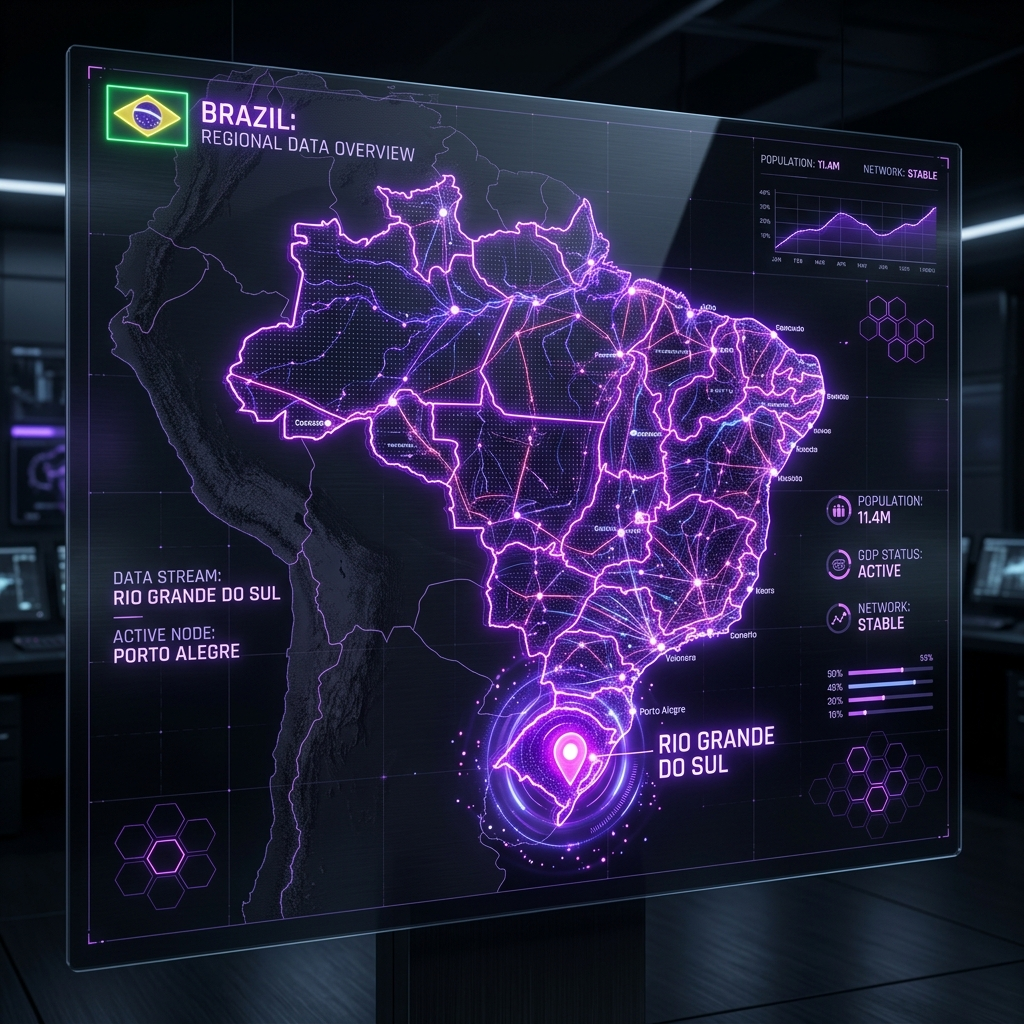
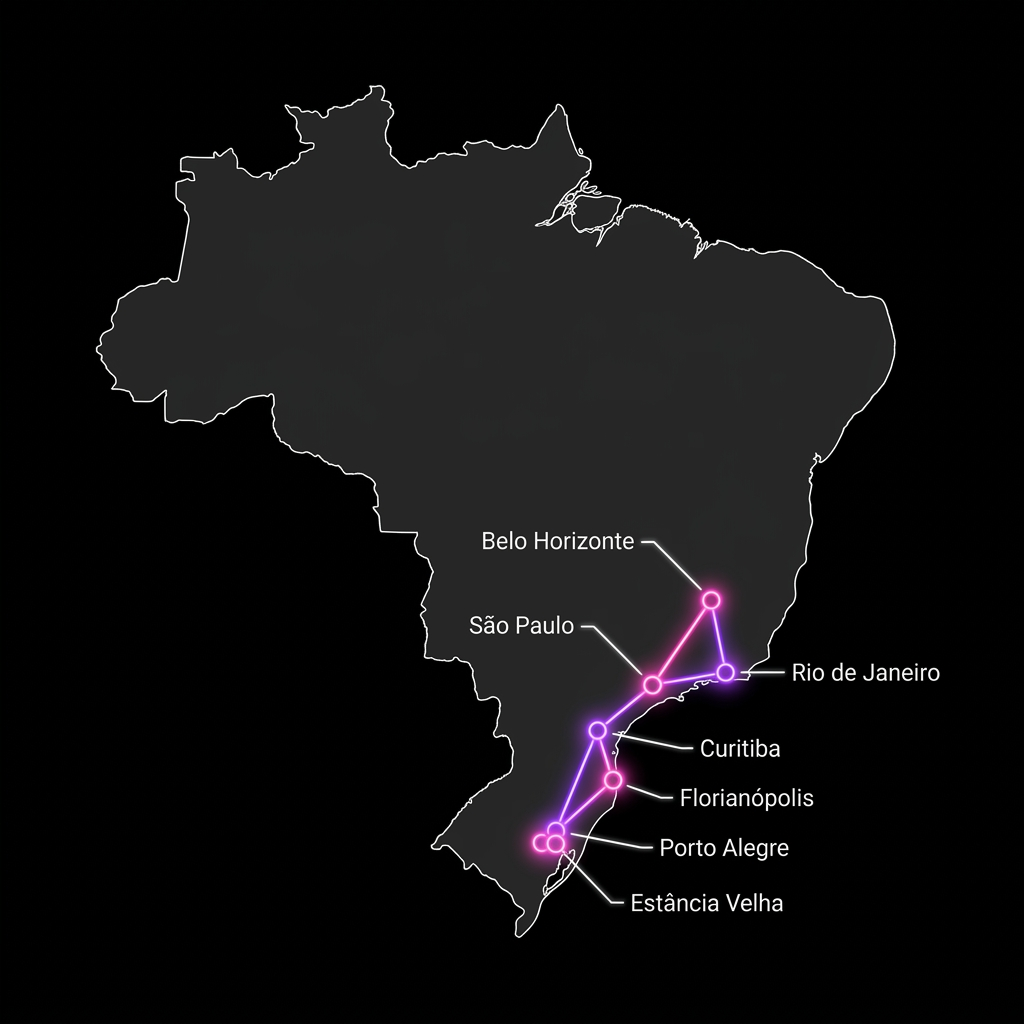
design: redesign hero and section titles using Syne font and stacked layout

diff --git a/src/index.css b/src/index.css
@@ -1,4 +1,4 @@
-@import url('https://fonts.googleapis.com/css2?family=Outfit:wght@300;400;500;600;700;800;900&family=Space+Grotesk:wght@400;500;600;700&family=Plus+Jakarta+Sans:wght@300;400;500;600;700&family=Inter:wght@300;400;500;600;700&display=swap');
+@import url('https://fonts.googleapis.com/css2?family=Syne:wght@700;800&family=Outfit:wght@300;400;500;600;700;800;900&family=Space+Grotesk:wght@400;500;600;700&family=Plus+Jakarta+Sans:wght@300;400;500;600;700&family=Inter:wght@300;400;500;600;700&display=swap');
 
 :root {
   --bg-primary: #050508;
@@ -1615,21 +1615,44 @@ h1, h2, h3, h4, h5, h6 {
   border-color: var(--neon-purple);
 }
 
-/* Builderz Timeline & Typography Styles for Marketing Landing Page */
 .builderz-main-title {
-  font-size: 3rem;
-  font-weight: 900;
-  line-height: 1.1;
-  letter-spacing: -0.02em;
+  font-family: 'Syne', sans-serif;
+  font-size: 4.8rem;
+  font-weight: 800;
+  line-height: 0.82;
+  letter-spacing: -0.04em;
   margin: 0;
   color: #ffffff;
+  text-transform: uppercase;
 }
 
 .builderz-outlined-text {
   color: transparent !important;
-  -webkit-text-stroke: 1.5px var(--neon-purple);
-  text-stroke: 1.5px var(--neon-purple);
-  text-shadow: 0 0 15px rgba(124, 58, 237, 0.2);
+  -webkit-text-stroke: 2px var(--neon-purple);
+  text-stroke: 2px var(--neon-purple);
+  text-shadow: 0 0 20px rgba(124, 58, 237, 0.25);
+}
+
+@media (max-width: 992px) {
+  .builderz-main-title {
+    font-size: 3.8rem;
+  }
+}
+
+@media (max-width: 768px) {
+  .builderz-main-title {
+    font-size: 2.8rem;
+    -webkit-text-stroke: 1.5px var(--neon-purple);
+    text-stroke: 1.5px var(--neon-purple);
+  }
+}
+
+@media (max-width: 480px) {
+  .builderz-main-title {
+    font-size: 2.2rem;
+    -webkit-text-stroke: 1px var(--neon-purple);
+    text-stroke: 1px var(--neon-purple);
+  }
 }
 
 .builderz-timeline-container {
@@ -1764,24 +1787,28 @@ h1, h2, h3, h4, h5, h6 {
 }
 
 .mkt-mentor-name-primary {
-  font-size: 4rem;
-  font-weight: 900;
+  font-family: 'Syne', sans-serif;
+  font-size: 5.8rem;
+  font-weight: 800;
   color: #ffffff;
-  line-height: 0.9;
-  letter-spacing: -0.02em;
+  line-height: 0.82;
+  letter-spacing: -0.04em;
   margin: 0;
+  text-transform: uppercase;
 }
 
 .mkt-mentor-name-secondary {
-  font-size: 4rem;
-  font-weight: 900;
-  line-height: 0.9;
-  letter-spacing: -0.02em;
+  font-family: 'Syne', sans-serif;
+  font-size: 5.8rem;
+  font-weight: 800;
+  line-height: 0.82;
+  letter-spacing: -0.04em;
   margin: 0 0 24px;
   color: transparent !important;
-  -webkit-text-stroke: 1.5px var(--neon-purple);
-  text-stroke: 1.5px var(--neon-purple);
-  text-shadow: 0 0 15px rgba(124, 58, 237, 0.2);
+  -webkit-text-stroke: 2px var(--neon-purple);
+  text-stroke: 2px var(--neon-purple);
+  text-shadow: 0 0 20px rgba(124, 58, 237, 0.25);
+  text-transform: uppercase;
 }
 
 .mkt-mentor-lead-text {
@@ -1825,5 +1852,128 @@ h1, h2, h3, h4, h5, h6 {
     grid-template-columns: 1fr;
     gap: 40px;
     max-width: 600px;
+  }
+  .mkt-mentor-name-primary,
+  .mkt-mentor-name-secondary {
+    font-size: 4.5rem;
+  }
+}
+
+@media (max-width: 768px) {
+  .mkt-mentor-name-primary,
+  .mkt-mentor-name-secondary {
+    font-size: 3.2rem;
+    -webkit-text-stroke: 1.5px var(--neon-purple);
+    text-stroke: 1.5px var(--neon-purple);
+  }
+}
+
+@media (max-width: 480px) {
+  .mkt-mentor-name-primary,
+  .mkt-mentor-name-secondary {
+    font-size: 2.4rem;
+    -webkit-text-stroke: 1px var(--neon-purple);
+    text-stroke: 1px var(--neon-purple);
+  }
+}
+
+/* Stacked Syne Title styles for premium tech vibes */
+.mkt-title-stack {
+  display: flex;
+  flex-direction: column;
+  align-items: center;
+  text-align: center;
+  gap: 0;
+  margin-bottom: 24px;
+}
+
+.mkt-title-stack-left {
+  display: flex;
+  flex-direction: column;
+  align-items: flex-start;
+  text-align: left;
+  gap: 0;
+  margin-bottom: 24px;
+}
+
+.mkt-title-line {
+  font-family: 'Syne', sans-serif;
+  font-size: 5.8rem;
+  font-weight: 800;
+  line-height: 0.82;
+  letter-spacing: -0.04em;
+  text-transform: uppercase;
+  margin: 0;
+  padding: 0;
+}
+
+.mkt-title-solid {
+  color: #ffffff;
+}
+
+.mkt-title-outlined {
+  color: transparent !important;
+  -webkit-text-stroke: 2px var(--neon-purple);
+  text-stroke: 2px var(--neon-purple);
+  text-shadow: 0 0 20px rgba(124, 58, 237, 0.25);
+}
+
+.mkt-title-accent {
+  color: var(--neon-purple);
+  text-shadow: 0 0 20px rgba(124, 58, 237, 0.35);
+}
+
+@media (max-width: 992px) {
+  .mkt-title-line {
+    font-size: 4.5rem;
+  }
+}
+
+@media (max-width: 768px) {
+  .mkt-title-line {
+    font-size: 3.2rem;
+    -webkit-text-stroke: 1.5px var(--neon-purple);
+    text-stroke: 1.5px var(--neon-purple);
+  }
+}
+
+@media (max-width: 480px) {
+  .mkt-title-line {
+    font-size: 2.4rem;
+    -webkit-text-stroke: 1px var(--neon-purple);
+    text-stroke: 1px var(--neon-purple);
+  }
+}
+
+.mkt-section-title-line {
+  font-family: 'Syne', sans-serif;
+  font-size: 3.8rem;
+  font-weight: 800;
+  line-height: 0.85;
+  letter-spacing: -0.04em;
+  text-transform: uppercase;
+  margin: 0;
+  padding: 0;
+}
+
+@media (max-width: 992px) {
+  .mkt-section-title-line {
+    font-size: 3rem;
+  }
+}
+
+@media (max-width: 768px) {
+  .mkt-section-title-line {
+    font-size: 2.2rem;
+    -webkit-text-stroke: 1.5px var(--neon-purple);
+    text-stroke: 1.5px var(--neon-purple);
+  }
+}
+
+@media (max-width: 480px) {
+  .mkt-section-title-line {
+    font-size: 1.8rem;
+    -webkit-text-stroke: 1px var(--neon-purple);
+    text-stroke: 1px var(--neon-purple);
   }
 }

diff --git a/src/MarketingLandingPage.tsx b/src/MarketingLandingPage.tsx
@@ -170,8 +170,11 @@ Apenas para quem possui o convite exclusivo. Acesse o painel e confirme sua insc
         <div className="mkt-badge-host">
           Eduardo Both & Gabriel Müller Apresentam
         </div>
-        <h1 className="mkt-h1">AI EXPERIENCE</h1>
-        <h1 className="mkt-h1-accent">ESTÂNCIA VELHA</h1>
+        <div className="mkt-title-stack" style={{ marginBottom: '32px' }}>
+          <h1 className="mkt-title-line mkt-title-solid">AI EXPERIENCE</h1>
+          <h1 className="mkt-title-line mkt-title-outlined">ESTÂNCIA</h1>
+          <h1 className="mkt-title-line mkt-title-accent">VELHA.</h1>
+        </div>
         <p className="mkt-subtitle">
           Construa sistemas, aplicativos e automações corporativas reais ao vivo, usando inteligência artificial. Sem teoria morta, 100% hands-on.
         </p>
@@ -234,12 +237,10 @@ Apenas para quem possui o convite exclusivo. Acesse o painel e confirme sua insc
         <div style={{ maxWidth: '1200px', margin: '0 auto', display: 'flex', alignItems: 'center', minHeight: '450px' }}>
           <div style={{ position: 'relative', zIndex: 10, maxWidth: '550px' }}>
             <span className="mkt-section-label">[ 01 ] · GEO TRACE</span>
-            <h2 className="mkt-section-title" style={{ fontSize: '3rem', lineHeight: '1.1', fontWeight: 900 }}>
-              ROTA DE INOVAÇÃO.
-            </h2>
-            <h2 style={{ fontSize: '3rem', lineHeight: '1.1', fontWeight: 900, marginBottom: '24px', color: 'var(--neon-cyan)', textShadow: '0 0 20px rgba(0, 242, 254, 0.35)' }}>
-              PRÓXIMA PARADA: RS.
-            </h2>
+            <div className="mkt-title-stack-left" style={{ marginBottom: '24px' }}>
+              <h2 className="mkt-section-title-line mkt-title-solid">ROTA DE INOVAÇÃO.</h2>
+              <h2 className="mkt-section-title-line mkt-title-outlined">ESTÂNCIA VELHA.</h2>
+            </div>
             <p style={{ color: '#9ca3af', fontSize: '1rem', lineHeight: '1.6', marginBottom: '28px' }}>
               O AI Experience está cruzando regiões estratégicas de empreendedorismo de alta tecnologia. Trazemos a imersão diretamente para o ecossistema do Vale do Sinos, pousando estrategicamente em **Estância Velha**.
             </p>
@@ -276,7 +277,10 @@ Apenas para quem possui o convite exclusivo. Acesse o painel e confirme sua insc
       <section className="mkt-section" style={{ borderTop: '1px solid rgba(255, 255, 255, 0.05)' }}>
         <span className="mkt-section-label" style={{ textAlign: 'center' }}>[ 02 ] · THE METHOD</span>
         <div className="mkt-section-header" style={{ marginBottom: '60px' }}>
-          <h2 className="mkt-section-title">O MÉTODO GUIDE</h2>
+          <div className="mkt-title-stack" style={{ marginBottom: '16px' }}>
+            <h2 className="mkt-section-title-line mkt-title-solid">O MÉTODO</h2>
+            <h2 className="mkt-section-title-line mkt-title-outlined">GUIDE.</h2>
+          </div>
           <p style={{ color: '#9ca3af', maxWidth: '600px', margin: '12px auto 0', fontSize: '0.95rem' }}>
             A gente largou o ensino tradicional. No palco, do zero ao deploy, expondo todos os atalhos do stack mais rápido do mercado. Você sai com seu app no ar - não com uma apostila.
           </p>
@@ -343,7 +347,10 @@ Apenas para quem possui o convite exclusivo. Acesse o painel e confirme sua insc
       <section className="mkt-section" style={{ borderTop: '1px solid rgba(255, 255, 255, 0.05)' }}>
         <span className="mkt-section-label" style={{ textAlign: 'center' }}>[ 03 ] · A EXPERIÊNCIA</span>
         <div className="mkt-section-header" style={{ marginBottom: '48px' }}>
-          <h2 className="mkt-section-title">UM DIA DE EVENTO</h2>
+          <div className="mkt-title-stack" style={{ marginBottom: '16px' }}>
+            <h2 className="mkt-section-title-line mkt-title-solid">UM DIA DE</h2>
+            <h2 className="mkt-section-title-line mkt-title-outlined">EVENTO.</h2>
+          </div>
           <p style={{ color: '#9ca3af', maxWidth: '600px', margin: '12px auto 0', fontSize: '0.95rem' }}>
             A atmosfera de uma bancada de desenvolvimento com foco em entrega real.
           </p>
@@ -485,7 +492,10 @@ Apenas para quem possui o convite exclusivo. Acesse o painel e confirme sua insc
       <section className="mkt-section" style={{ borderTop: '1px solid rgba(255, 255, 255, 0.05)' }}>
         <span className="mkt-section-label" style={{ textAlign: 'center' }}>[ 06 ] · REALIZAÇÃO LOCAL</span>
         <div className="mkt-section-header" style={{ marginBottom: '60px' }}>
-          <h2 className="mkt-section-title">HOSTS E ORGANIZAÇÃO</h2>
+          <div className="mkt-title-stack" style={{ marginBottom: '16px' }}>
+            <h2 className="mkt-section-title-line mkt-title-solid">REALIZAÇÃO</h2>
+            <h2 className="mkt-section-title-line mkt-title-outlined">LOCAL.</h2>
+          </div>
           <p style={{ color: '#9ca3af', maxWidth: '600px', margin: '12px auto 0', fontSize: '0.95rem' }}>
             Conheça quem está organizando a edição regional em Estância Velha e promovendo a inovação local.
           </p>
@@ -514,7 +524,10 @@ Apenas para quem possui o convite exclusivo. Acesse o painel e confirme sua insc
       <section className="mkt-section" style={{ borderTop: '1px solid rgba(255, 255, 255, 0.05)' }}>
         <span className="mkt-section-label" style={{ textAlign: 'center' }}>[ 07 ] · COMPATIBILIDADE</span>
         <div className="mkt-section-header" style={{ marginBottom: '60px' }}>
-          <h2 className="mkt-section-title">PARA QUEM É A IMERSÃO?</h2>
+          <div className="mkt-title-stack" style={{ marginBottom: '16px' }}>
+            <h2 className="mkt-section-title-line mkt-title-solid">PARA QUEM É</h2>
+            <h2 className="mkt-section-title-line mkt-title-outlined">A IMERSÃO?</h2>
+          </div>
           <p style={{ color: '#9ca3af', maxWidth: '600px', margin: '12px auto 0', fontSize: '0.95rem' }}>
             A comunidade é voltada para quem constrói e coloca projetos no ar, independentemente da sua formação.
           </p>
@@ -568,7 +581,10 @@ Apenas para quem possui o convite exclusivo. Acesse o painel e confirme sua insc
       <section className="mkt-section" style={{ borderTop: '1px solid rgba(255, 255, 255, 0.05)' }}>
         <span className="mkt-section-label" style={{ textAlign: 'center' }}>[ 08 ] · DÚVIDAS FREQUENTES</span>
         <div className="mkt-section-header" style={{ marginBottom: '60px' }}>
-          <h2 className="mkt-section-title">FAQ DO EVENTO</h2>
+          <div className="mkt-title-stack" style={{ marginBottom: '16px' }}>
+            <h2 className="mkt-section-title-line mkt-title-solid">FAQ DO</h2>
+            <h2 className="mkt-section-title-line mkt-title-outlined">EVENTO.</h2>
+          </div>
         </div>
 
         <div className="mkt-faq-list">
@@ -591,13 +607,14 @@ Apenas para quem possui o convite exclusivo. Acesse o painel e confirme sua insc
       {/* DESIGNERS CORNER (Aba para designer com ideias de posts) */}
       <section className="mkt-section" style={{ borderTop: '1px solid rgba(255, 255, 255, 0.05)' }}>
         <div className="mkt-designer-section">
-          <div style={{ display: 'flex', alignItems: 'center', gap: '12px', marginBottom: '16px' }}>
-            <InstagramIcon size={28} style={{ color: 'var(--neon-purple)' }} />
+          <div style={{ display: 'flex', alignItems: 'center', gap: '16px', marginBottom: '20px' }}>
+            <InstagramIcon size={32} style={{ color: 'var(--neon-purple)' }} />
             <div>
               <span className="mkt-section-label" style={{ margin: 0 }}>[ 09 ] · ÁREA CRIATIVA</span>
-              <h3 style={{ fontSize: '1.5rem', fontWeight: 800, margin: 0, color: '#fff' }}>
-                Marketing de Afiliados & Designers
-              </h3>
+              <div className="mkt-title-stack-left" style={{ marginBottom: 0 }}>
+                <h3 className="mkt-section-title-line mkt-title-solid" style={{ fontSize: '2.4rem' }}>ÁREA</h3>
+                <h3 className="mkt-section-title-line mkt-title-outlined" style={{ fontSize: '2.4rem' }}>CRIATIVA.</h3>
+              </div>
             </div>
           </div>
           <p style={{ color: '#9ca3af', fontSize: '0.9rem', lineHeight: '1.5', margin: 0, maxWidth: '700px' }}>